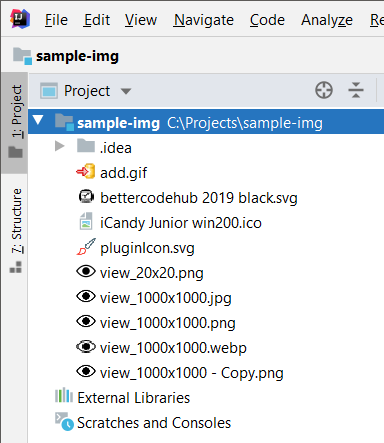
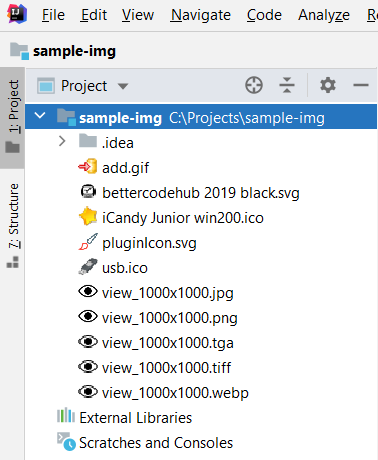
fix usage of twelvemonkeys lib

Changed region(s): [[0.0, 0.0, 1.0, 1.0]]

diff --git a/README.md b/README.md
@@ -63,26 +63,6 @@ Supported when *Android Support* plugin is activated:
  - *.webm
  - *.webp
  
-Limited support (may not work) for:
- 
- - *.bigtiff
- - *.dcx
- - *.icns
- - *.ico
- - *.jbig2
- - *.pam
- - *.pbm
- - *.pcx
- - *.pgm
- - *.pnm
- - *.ppm
- - *.psd
- - *.rgbe
- - *.tga
- - *.tif
- - *.tiff
- - *.wbmp
- - *.xbm
- - *.xpm
+And files Supported by bundled TwelveMonkeys library, like *.ico, *.tga, etc. See [File formats supported](https://github.com/haraldk/TwelveMonkeys#file-formats-supported).
  
 ![screeshot](misc/screenshot.png)

diff --git a/CHANGELOG.md b/CHANGELOG.md
@@ -1,5 +1,9 @@
 ## Icon Viewer 2 Change Log
 
+### 1.4.0 (WIP)
+* upgrade TwelveMonkeys library from 3.6 to [3.6.1](https://github.com/haraldk/TwelveMonkeys/releases/tag/twelvemonkeys-3.6.1).
+* fix usage of TwelveMonkeys library, it should fix support of many file formats.
+
 ### 1.3.0 (2020/07/18)
 * upgrade TwelveMonkeys library from 3.5 to [3.6](https://github.com/haraldk/TwelveMonkeys/releases/tag/twelvemonkeys-3.6).
 
